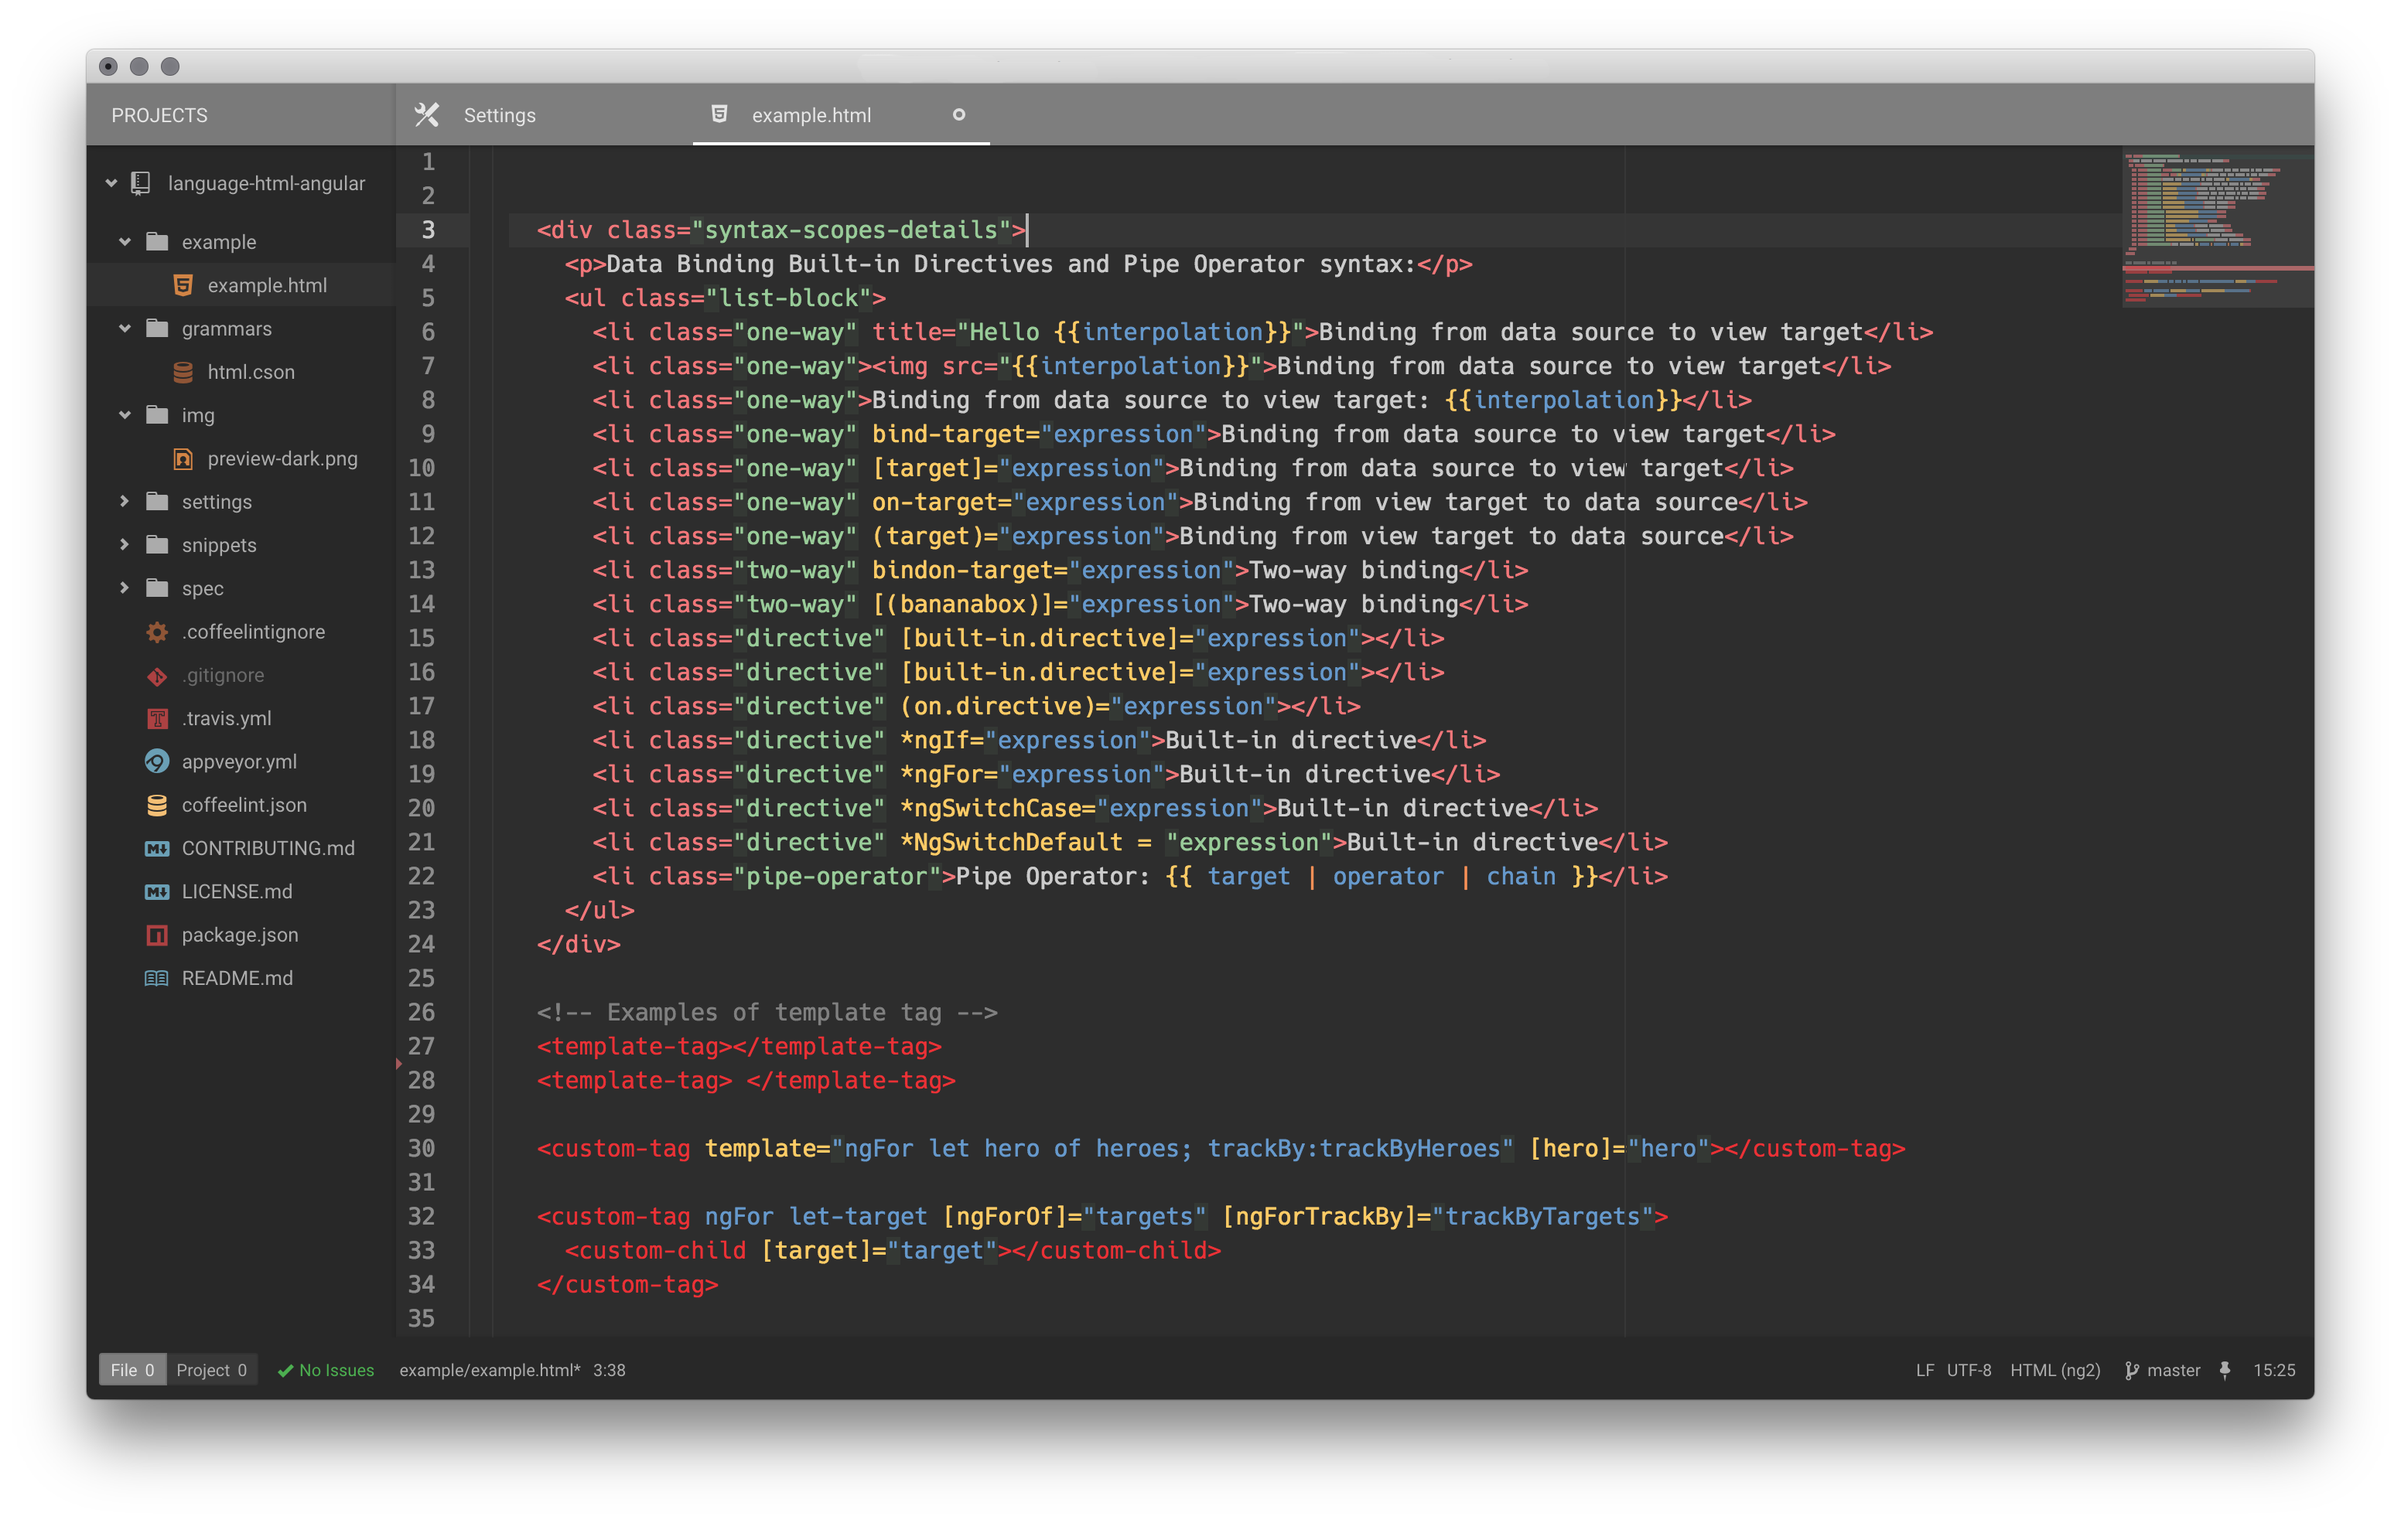
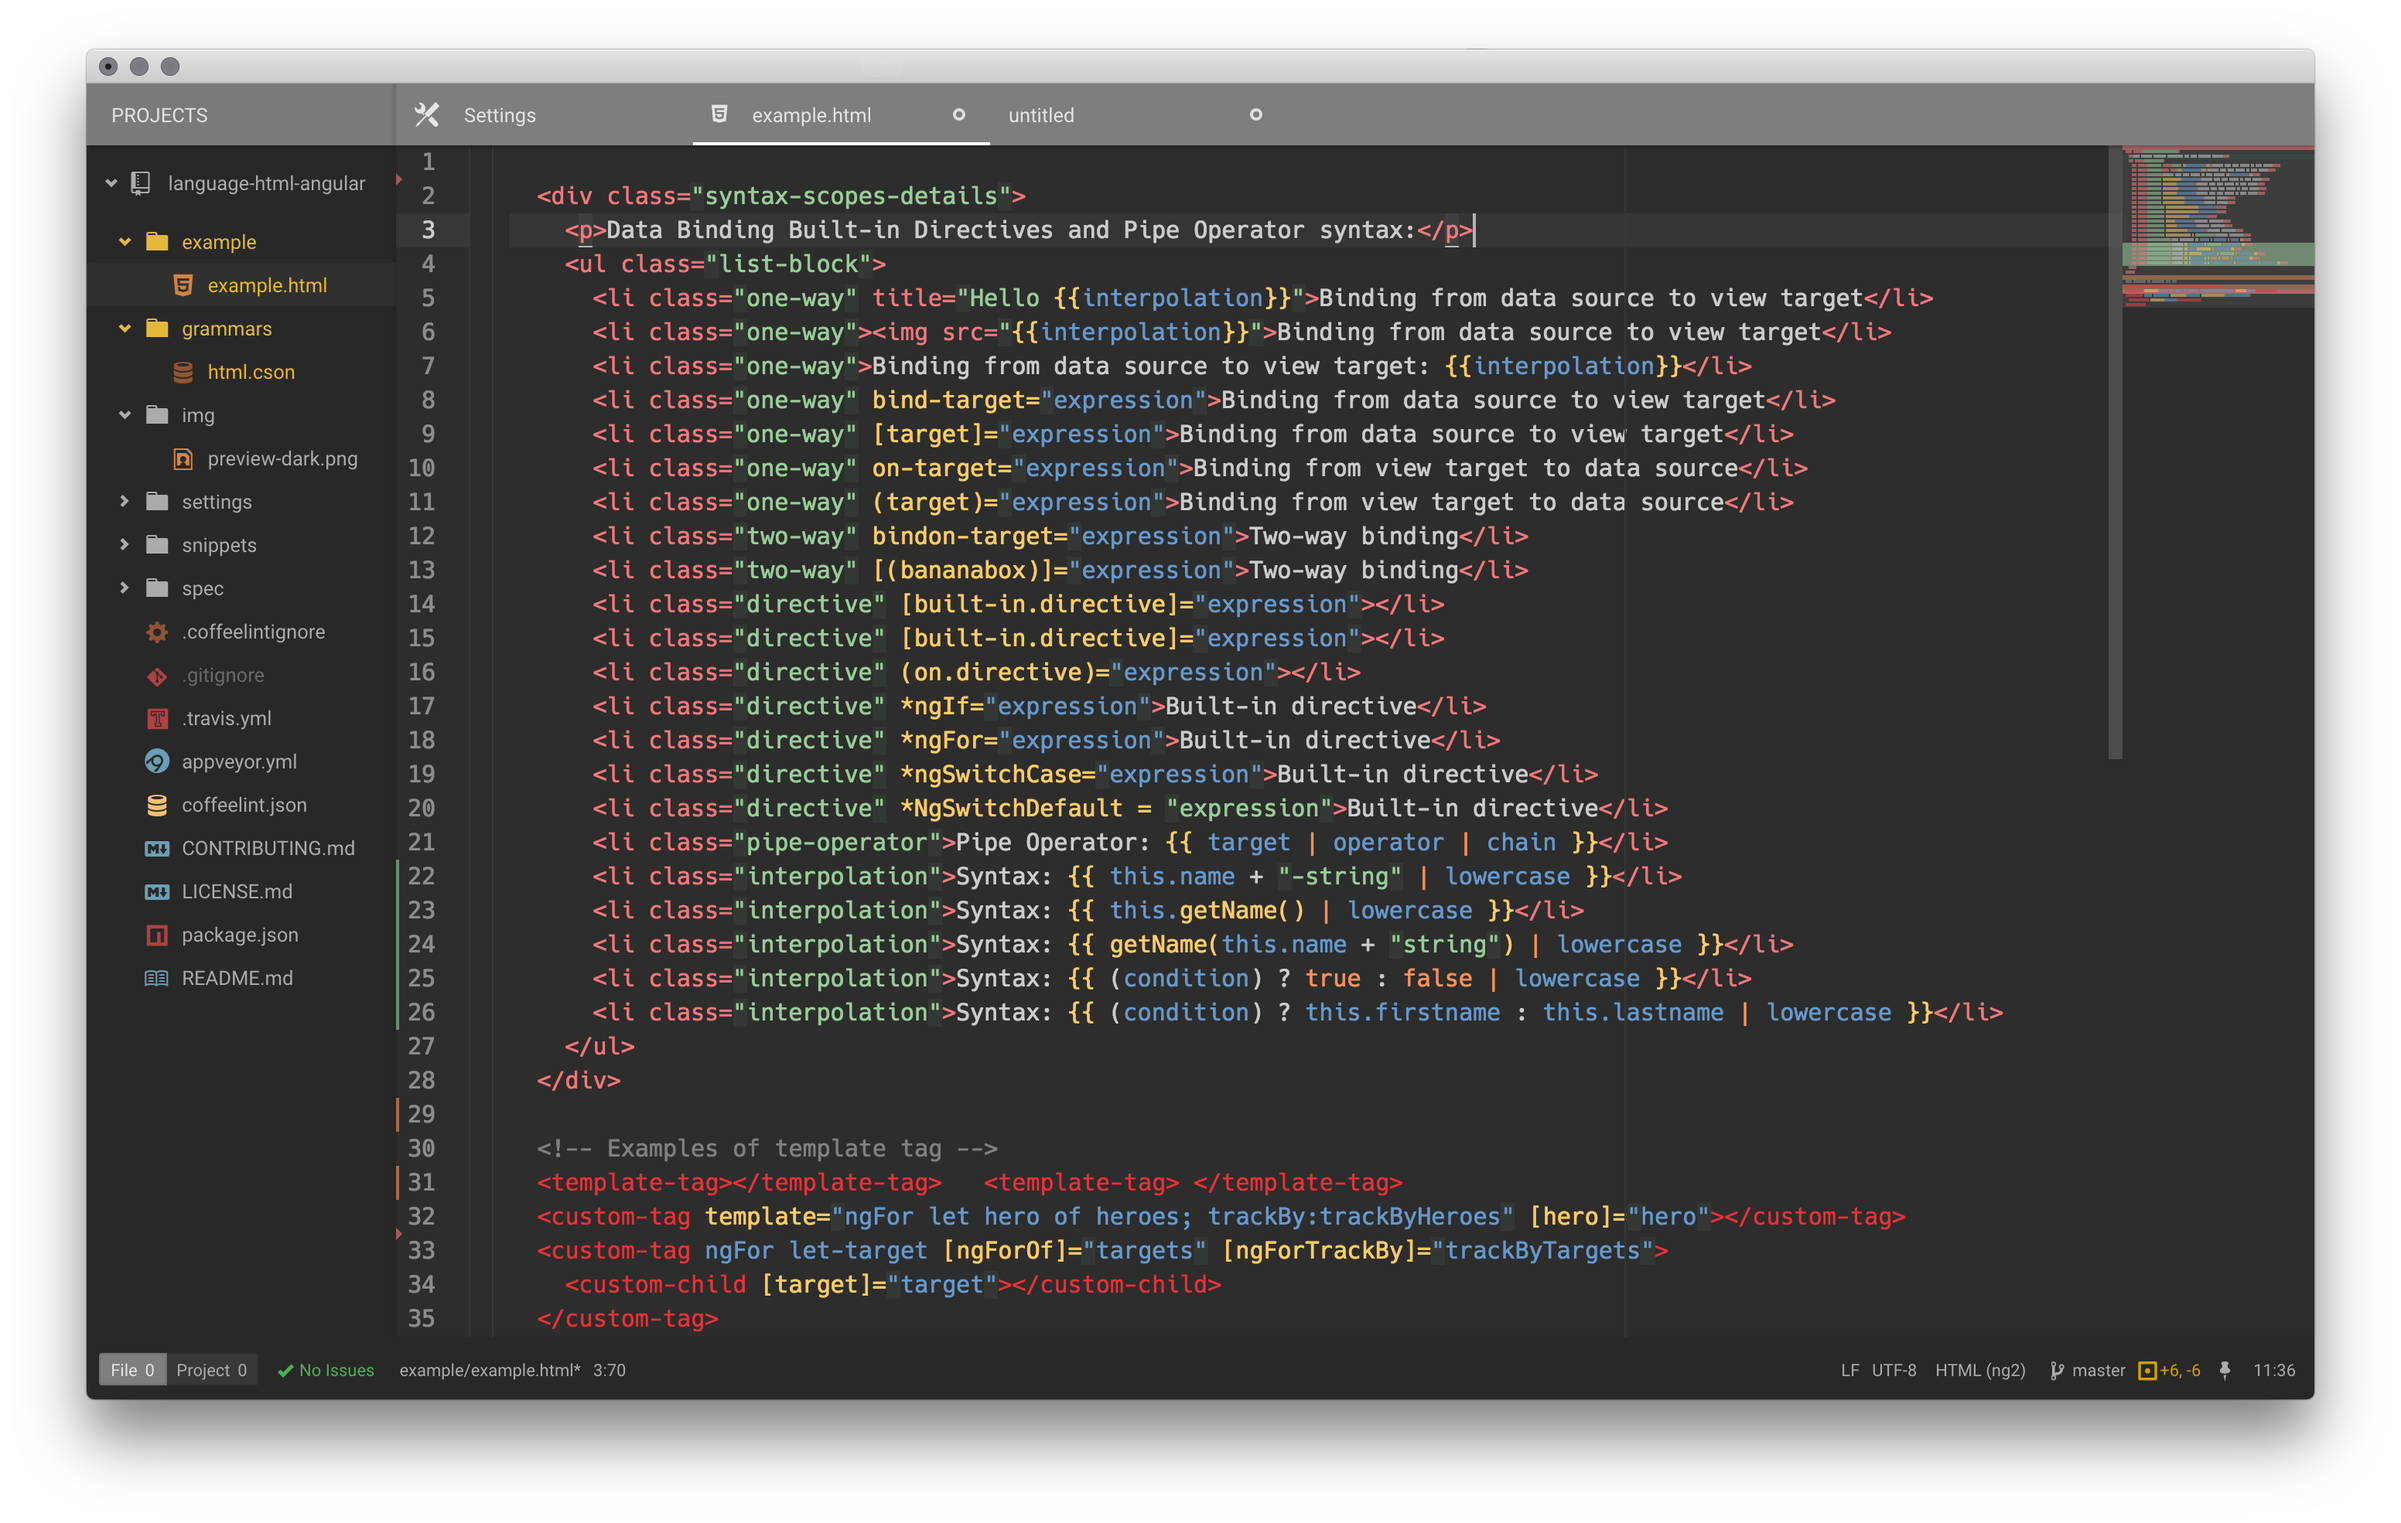
interpolation syntax highlighting added

diff --git a/lib/_theme.less b/lib/_theme.less
@@ -3,16 +3,16 @@
 
 // These colors are specific to the theme. Do not use in a package!
 
-@_background: @background_dark;
-@_current-line: lighten(@_background, 4%);
-@_selection: lighten(@_background, 10%);
-@_foreground: @foreground_dark;
+@_background: @background_light;
+@_current-line: darken(@_background, 4%);
+@_selection: darken(@_background, 10%);
+@_foreground: @foreground_light;
 @_comment: @comment_neutral;
 
-@____1: @1____;
-@____2: @2____;
-@____3: @3____;
-@____4: @4____;
-@____5: @5____;
-@____6: @6____;
-@____7: @7____;
+@____1: darken(@1____,25%);
+@____2: darken(@2____,15%);
+@____3: darken(@3____,35%);
+@____4: darken(@4____,35%);
+@____5: darken(@5____,20%);
+@____6: darken(@6____,25%);
+@____7: darken(@7____,25%);

diff --git a/styles/languages/angular.less b/styles/languages/angular.less
@@ -76,4 +76,37 @@
     color: darken(@111111,15%) !important;
   }
 
+  // Interpolation Syntax
+  .punctuation.definition.js.string.begin.ng.html {
+    color: @444444 !important;
+  }
+
+  .punctuation.definition.js.string.end.ng.html {
+    color: @444444 !important;
+  }
+
+  .string.operator.ng {
+    color: @syntax-text-color !important;
+  }
+
+  .string.bracket.ng {
+    color: @syntax-text-color !important;
+  }
+
+  .string.js.bool.ng {
+    color: @222222 !important;
+  }
+
+  .punctuation.definition.function.begin.ng {
+    color: @333333 !important;
+  }
+
+  .punctuation.definition.function.end.ng {
+    color: @333333 !important;
+  }
+
+  .meta.definition.function.ng {
+    color: @666666 !important;
+  }
+
 }
